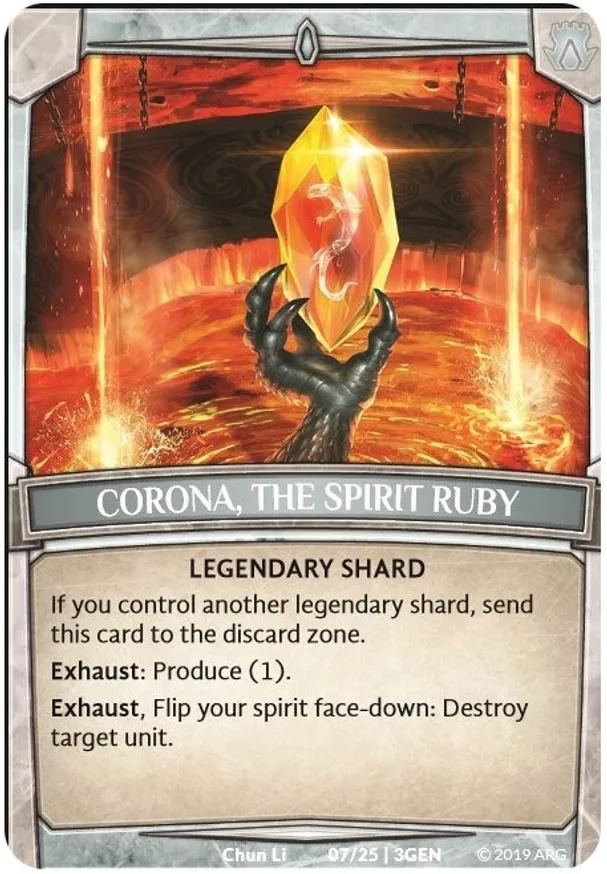
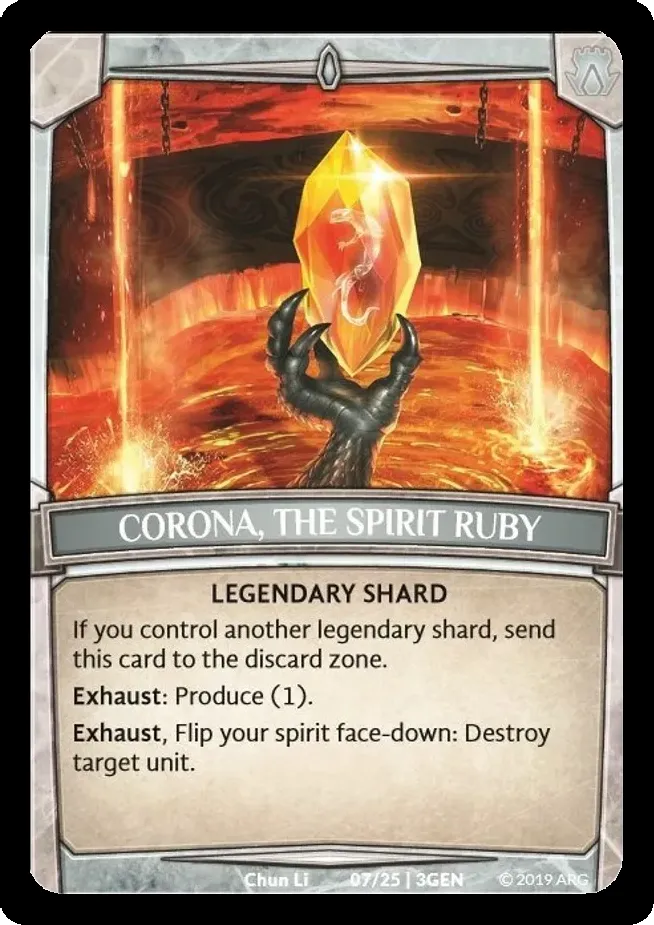
small fixes

diff --git a/data/expansion-packs.js b/data/expansion-packs.js
@@ -149,8 +149,7 @@ export const generations = [
     number: "14/25",
   },
   {
-    image:
-      "images/Expansion-Pack-Generations/kite-kyte-the-spirit-emerald.webp",
+    image: "images/Expansion-Pack-Generations/kyte-the-spirit-emerald.webp",
     element: "argent",
     name: "Kyte, the Spirit Emerald",
     type: "Legendary Shard",

diff --git a/images/python-scripts/chaos.py b/images/python-scripts/chaos.py
@@ -9,54 +9,73 @@ def convertImage(filename):
     img = img.convert("RGBA")
     datas = img.getdata()
     width, height = img.size
-    # newData = []
 
-    # Finds where to cut the borders
-    # ls = findLeftSide(datas, width, height)
-    # rs = findRightSide(datas, width, height)
-    # ts = findTopSide(datas, width, height)
-    # bs = findBottomSide(datas, width, height)
-
-    # Crops the image and restablishes borders
-    # img = img.crop((ls, ts, rs, bs))
-    # img = img.convert("RGBA")
+    img = img.crop((8, 6, width - 6, height - 5))
+    img = img.convert("RGBA")
     check = img.getdata()
     datas = list(img.getdata())
     width, height = img.size
+    newData = []
 
     tc = True
-    sal = []
-
-    for y in range(height):
-        for x in range(width):
+    for y in range(55):
+        for x in range(55):
             pixels = check.getpixel((x, y))
-            if pixels[0] >= 28 and pixels[1] >= 28 and pixels[2] >= 28 and tc:
+            if pixels[0] >= 240 and pixels[1] >= 240 and pixels[2] >= 240 and tc:
                 pixel_list = list(datas[y * img.width + x])
-
                 # Change the index value of the pixel in the list.
                 pixel_list[0] = 0
                 pixel_list[1] = 0
                 pixel_list[2] = 0
-                pixel_list[3] = 0
-
+                pixel_list[3] = 255
                 # Convert the list pixel value back to a tuple.
                 datas[y * img.width + x] = tuple(pixel_list)
             else:
                 tc = False
         tc = True
 
-    for y in range(height):
-        for x in reversed(range(width)):
+    for y in range(55):
+        for x in reversed(range(width - 55, width)):
             pixels = check.getpixel((x, y))
-            if pixels[0] >= 28 and pixels[1] >= 28 and pixels[2] >= 28 and tc:
+            if pixels[0] >= 240 and pixels[1] >= 240 and pixels[2] >= 240 and tc:
                 pixel_list = list(datas[y * img.width + x])
-
                 # Change the index value of the pixel in the list.
                 pixel_list[0] = 0
                 pixel_list[1] = 0
                 pixel_list[2] = 0
-                pixel_list[3] = 0
+                pixel_list[3] = 255
+                # Convert the list pixel value back to a tuple.
+                datas[y * img.width + x] = tuple(pixel_list)
+            else:
+                tc = False
+        tc = True
 
+    for y in range(height - 55, height):
+        for x in range(55):
+            pixels = check.getpixel((x, y))
+            if pixels[0] >= 240 and pixels[1] >= 240 and pixels[2] >= 240 and tc:
+                pixel_list = list(datas[y * img.width + x])
+                # Change the index value of the pixel in the list.
+                pixel_list[0] = 0
+                pixel_list[1] = 0
+                pixel_list[2] = 0
+                pixel_list[3] = 255
+                # Convert the list pixel value back to a tuple.
+                datas[y * img.width + x] = tuple(pixel_list)
+            else:
+                tc = False
+        tc = True
+
+    for y in range(height - 55, height):
+        for x in reversed(range(width - 55, width)):
+            pixels = check.getpixel((x, y))
+            if pixels[0] >= 240 and pixels[1] >= 240 and pixels[2] >= 240 and tc:
+                pixel_list = list(datas[y * img.width + x])
+                # Change the index value of the pixel in the list.
+                pixel_list[0] = 0
+                pixel_list[1] = 0
+                pixel_list[2] = 0
+                pixel_list[3] = 255
                 # Convert the list pixel value back to a tuple.
                 datas[y * img.width + x] = tuple(pixel_list)
             else:
@@ -64,7 +83,64 @@ def convertImage(filename):
         tc = True
 
     img.putdata(datas)
-    img.save(filename, "WEBP")
+
+    im3 = Image.new(mode="RGB", size=(width + 61, height + 62))
+    Image.Image.paste(im3, img, (30, 31))
+    im3 = im3.convert("RGBA")
+    datas3 = im3.getdata()
+    width1, height1 = im3.size
+
+    # Finds the image with the right borders
+    img1 = Image.open("../Betrayal/acid-monger.webp")
+    img1 = img1.convert("RGBA")
+    datas1 = img1.getdata()
+    width2, height2 = img1.size
+
+    # Borders from correct image
+    x1, y1 = 593, 843
+    x2, y2 = 593, 843
+
+    # apply the fixed border
+    for y in range(height1):
+        for x in range(width1):
+            if x in range(30) and y in range(31):
+                pixel = datas1.getpixel((x, y))
+                if pixel[3] == 0:
+                    newData.append((255, 255, 255, 0))
+                else:
+                    newData.append((0, 0, 0, 255))
+            elif x in range(width1 - 31, width1) and y in range(31):
+                pixel = datas1.getpixel((x2, y))
+                if pixel[3] == 0:
+                    newData.append((255, 255, 255, 0))
+                else:
+                    newData.append((0, 0, 0, 255))
+                x2 += 1
+                if x2 == width2:
+                    x2 = 593
+            elif x in range(30) and y in range(height1 - 31, height1):
+                pixel = datas1.getpixel((x, y2))
+                if pixel[3] == 0:
+                    newData.append((255, 255, 255, 0))
+                else:
+                    newData.append((0, 0, 0, 255))
+                if x == 29:
+                    y2 += 1
+            elif x in range(width1 - 31, width1) and y in range(height1 - 31, height1):
+                pixel = datas1.getpixel((x1, y1))
+                if pixel[3] == 0:
+                    newData.append((255, 255, 255, 0))
+                else:
+                    newData.append((0, 0, 0, 255))
+                x1 += 1
+                if x1 == width2:
+                    x1 = 593
+                    y1 += 1
+            else:
+                newData.append(datas3.getpixel((x, y)))
+
+    im3.putdata(newData)
+    im3.save(filename, "WEBP")
     print("Success")
 
     # for y in range(height):
@@ -86,7 +162,7 @@ def convertImage(filename):
     #     for x in range(width):
     #         pixel = datas.getpixel((x, y))
     #         if (pixel in sal and tc) or x in range(width - 7, width):
-    #             if pixel[0] >= 28 and pixel[1] >= 28 and pixel[2] >= 28:
+    #             if pixel[0] >= 139 and pixel[1] >= 139 and pixel[2] >= 139:
     #                 newData.append((255, 255, 255, 0))
     #             else:
     #                 newData.append((0, 0, 0, 255))
@@ -146,8 +222,8 @@ def findBottomSide(datas, wi, hi):
 # convertImage("../Expansion-Pack-Generations/198209.webp")
 # convertImage("../Expansion-Pack-Generations/198213.webp")
 
-convertImage("../Expansion-Pack-Generations/greathawk-of-cloudsea.webp")
-convertImage("../Expansion-Pack-Generations/lucient-guardian-of-vigilance.webp")
-convertImage("../Expansion-Pack-Generations/nobe-the-shadow-guardian.webp")
-convertImage("../Expansion-Pack-Generations/stormcaster-of-azure-tower.webp")
-convertImage("../Expansion-Pack-Generations/vehemont-crimson-guardian.webp")
+convertImage("../Expansion-Pack-Generations/corona-the-spirit-ruby.webp")
+
+convertImage("../Expansion-Pack-Generations/fizzy-the-spirit-sapphire.webp")
+
+convertImage("../Expansion-Pack-Generations/kyte-the-spirit-emerald.webp")
